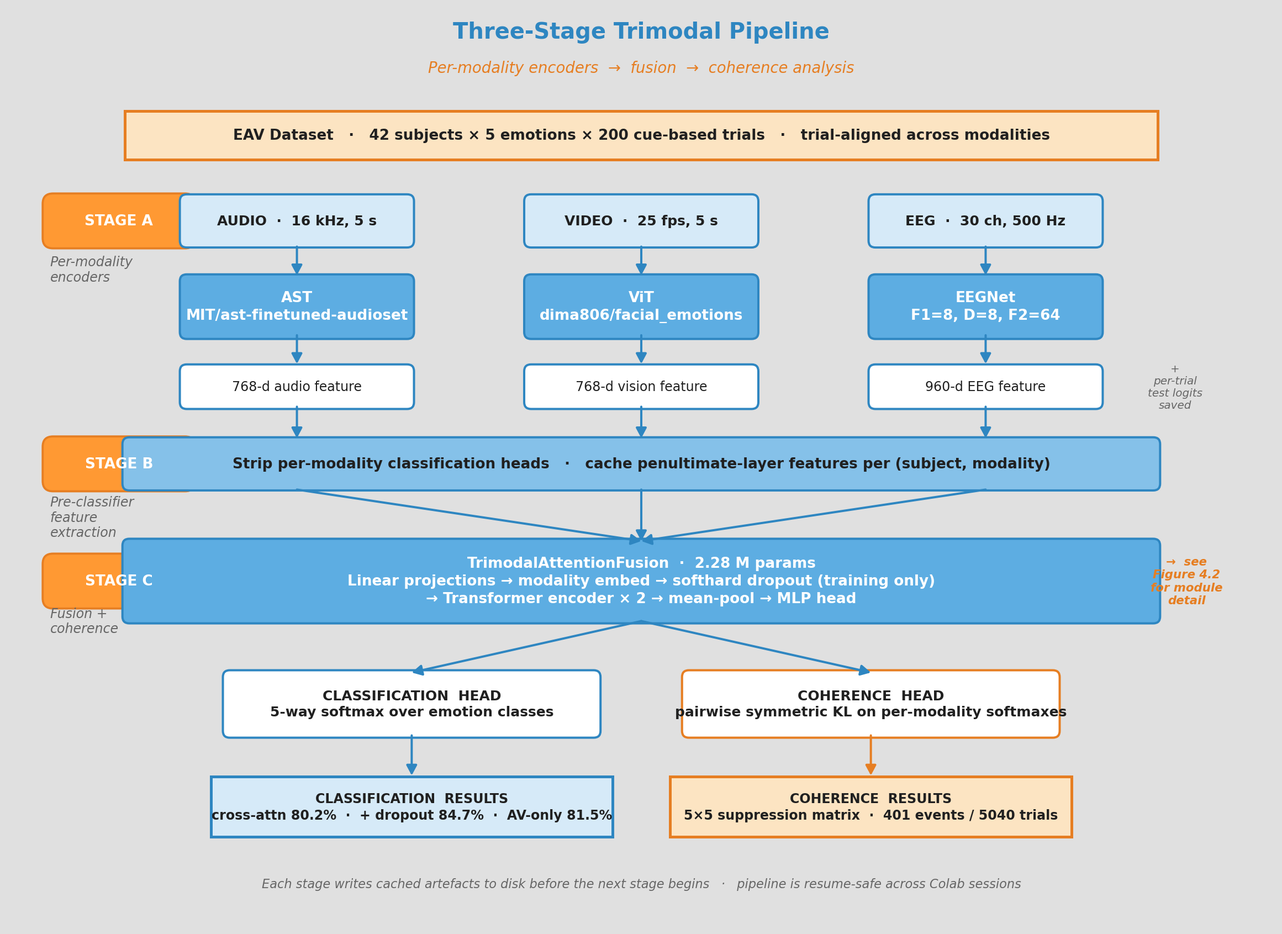
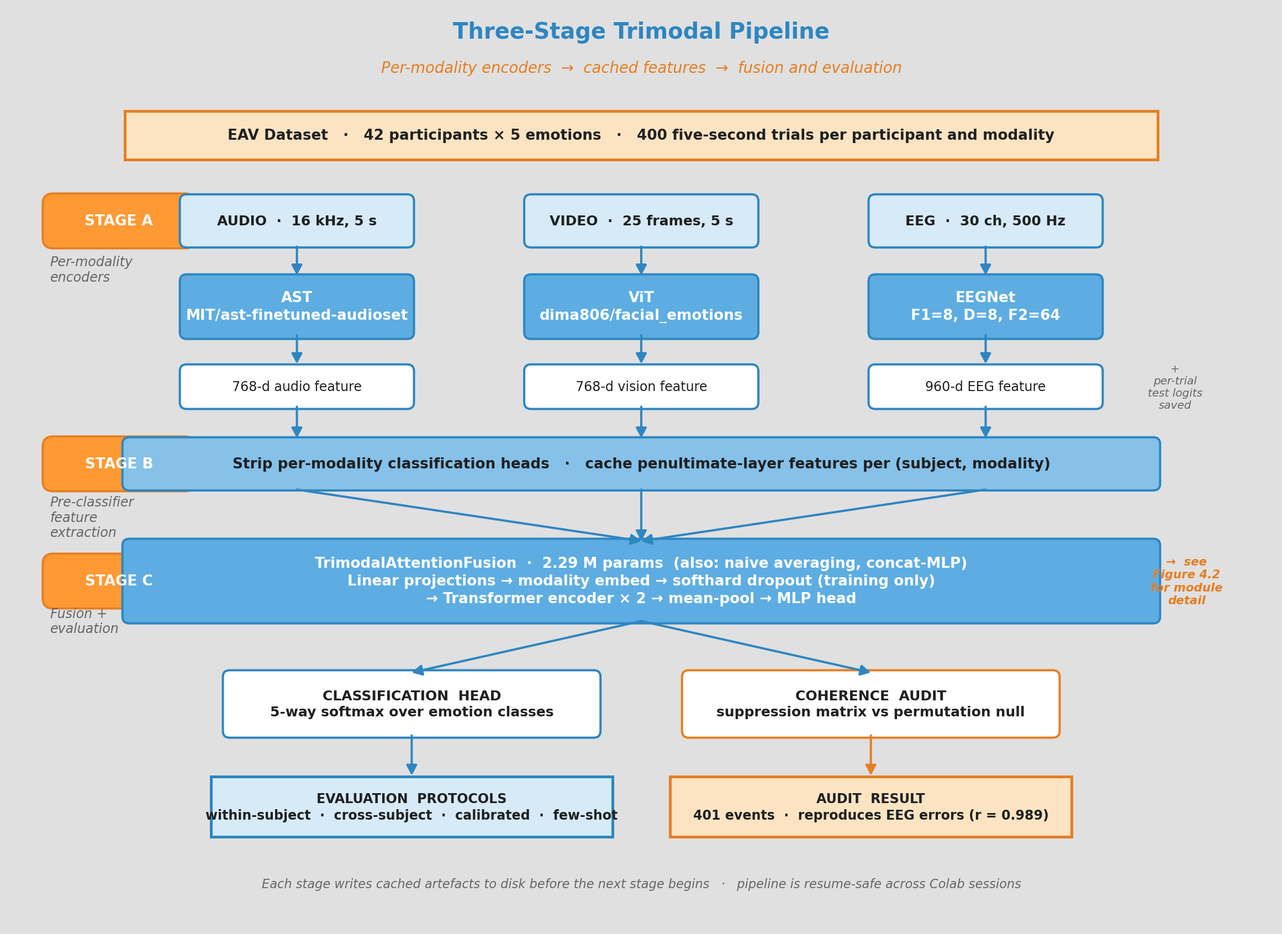
report: fixes from the compiled-PDF review
- Ch1: restore contributions 2-5 and the list's \end{enumerate} (lost in an
  earlier rewrite); four protocols; report-organisation duplicate removed.
- Figures 4.1, 4.2, 4.4 regenerated into LateX_P3/images without withdrawn
  numbers (80.2/84.7/81.5), with 2.29 M params, the implemented dropout
  scheme, no 'trial-aligned' or TFLOPS claims.
- Remaining \pend resolved: fold-1-only timing sentence; Pan et al.
  reduced to a neutral description (P2's two accounts contradicted).
- 'Demonstration' wording removed (no demo deliverable); stale Limitation 2
  reference; Q3/Q4 script jargon; wide tables resized; RQ-table lead-in;
  Limitation 7 wording matches C2; acknowledgement no longer cites the
  withdrawn coherence framing.
- main.tex: drop \nocite{*} (uncited P2 references no longer printed) and
  the empty nomenclature entry.

diff --git a/LateX_P3/chapters/chapter_1.tex b/LateX_P3/chapters/chapter_1.tex
@@ -48,9 +48,14 @@ The thesis makes two principal contributions, supported by three secondary ones.
 
 \begin{enumerate}
     \item \textbf{Subject calibration for trimodal fusion (Chapter~\ref{chap:calibration}).} Standardising each participant's fusion features with statistics from about 20 unlabelled five-second clips lifts every learned fusion head on unseen participants from 3--4.5 points below averaging to 73.6--75.9\%. Linear probes show that the calibration removes linearly decodable participant identity, mostly from vision. Averaging calibrated the same way is just as accurate, so without labels the gain belongs to calibration rather than to the fusion operator; when the calibration clips are also labelled, the learned heads outperform labelled averaging by 3.2--4.8 points at 50 clips, with attention trained with modality dropout the most accurate.
+    \item \textbf{An evaluation-integrity audit (Chapter~\ref{chap:audit}).} Choosing each fusion head's epoch on the test set had inflated the Pre-Thesis~II fusion results by 5.3--7.5 points; the modalities' trials cannot be shown to correspond from the released data; and the suppression matrix cannot be told apart from the EEG classifier's own errors. Each test is quick to run and can be reused on other work with EAV.
+    \item \textbf{The first subject-independent evaluation of trimodal fusion on EAV (Chapter~\ref{chap:crosssubject})}, which traces the loss on new participants to the vision modality.
+    \item \textbf{A trimodal attention fusion module that works without EEG (Chapters~\ref{chap:methodology} and~\ref{chap:within})}, trained with softhard modality dropout so that accuracy holds when EEG is absent.
+    \item \textbf{Documented fixes to the EAV reference code (Chapter~\ref{chap:engineering_challenges})}, including defects in the public EEGNet code that prevented it from training correctly.
+\end{enumerate}
 
 \section{Methodology in Brief}
-The system is built in three cached stages, and evaluated under three protocols.
+The system is built in three cached stages, and evaluated under four protocols.
 
 \textbf{Stage A: per-modality encoders.} The Audio Spectrogram Transformer (AST), pre-trained on AudioSet, is fine-tuned on audio clips; a Vision Transformer (ViT) pre-trained for facial emotion is fine-tuned on video frames; and EEGNet is trained from scratch on EEG segments.
 
@@ -58,7 +63,7 @@ The system is built in three cached stages, and evaluated under three protocols.
 
 \textbf{Stage C: fusion.} Four fusion methods are compared on the same features: naive late fusion (the mean of the three modalities' softmax outputs); a trimodal attention module (\texttt{TrimodalAttentionFusion}) that treats the three modality features as a three-token sequence and applies self-attention; a concatenation MLP; and the attention module trained with softhard modality dropout, which is also evaluated with EEG zeroed.
 
-\textbf{Protocols.} Results are reported within-subject (each participant's 280/120 split), cross-subject (five-fold subject-wise cross-validation with encoders retrained per fold), and cross-subject with per-participant calibration. Every trained model's reported epoch is chosen without reference to the data it is scored on. Paired Wilcoxon tests with Holm correction and bootstrap confidence intervals are used throughout.
+\textbf{Protocols.} Results are reported within-subject (each participant's 280/120 split), cross-subject (five-fold subject-wise cross-validation with encoders retrained per fold), cross-subject with per-participant calibration, and cross-subject with labelled calibration clips. Every trained model's reported epoch is chosen without reference to the data it is scored on. Paired Wilcoxon tests with Holm correction and bootstrap confidence intervals are used throughout.
 
 \textbf{Coherence analysis.} A suppression matrix counts trials on which audio and vision agree, EEG confidently disagrees, and records the pair of emotions involved. Its cells are tested against a class-conditional permutation null that preserves every classifier's error rates.
 
@@ -68,4 +73,4 @@ The system is built in three cached stages, and evaluated under three protocols.
 \textbf{Challenges.} Twenty-four technical and methodological challenges are documented in Chapter~\ref{chap:engineering_challenges}. The most consequential were defects in the EAV reference EEGNet code that prevented it from training correctly; the leakage risk of reusing within-subject encoders for a cross-subject evaluation, which required retraining every encoder for every fold; and the discovery, in the final phase, that the Pre-Thesis~II fusion results had been selected on the test set.
 
 \section{Report Organisation}
-Chapter~\ref{chap:litreview} reviews the relevant literature. Chapter~\ref{chap:requirements} sets out requirements, impacts and constraints. Chapter~\ref{chap:methodology} describes the methodology and Chapter~\ref{chap:implementation} its implementation. Chapter~\ref{chap:within} reports within-subject results; Chapter~\ref{chap:crosssubject}, the subject-independent evaluation; Chapter~\ref{chap:calibration}, unsupervised subject calibration; and Chapter~\ref{chap:audit}, the evaluation-integrity audit. Chapter~\ref{chap:engineering_challenges} documents engineering challenges, and Chapter~\ref{chap:conclusion} concludes.
+Chapter~\ref{chap:litreview} reviews the relevant literature. Chapter~\ref{chap:requirements} sets out requirements, impacts and constraints. Chapter~\ref{chap:methodology} describes the methodology and its implementation. Chapter~\ref{chap:within} reports within-subject results; Chapter~\ref{chap:crosssubject}, the subject-independent evaluation; Chapter~\ref{chap:calibration}, unsupervised subject calibration; and Chapter~\ref{chap:audit}, the evaluation-integrity audit. Chapter~\ref{chap:engineering_challenges} documents engineering challenges, and Chapter~\ref{chap:conclusion} concludes.

diff --git a/LateX_P3/chapters/chapter_6.tex b/LateX_P3/chapters/chapter_6.tex
@@ -138,7 +138,7 @@ The attention architecture is nonetheless retained as the thesis's fusion design
 \section{Modality Dropout and Robustness}
 \label{sec:modality_dropout_results}
 
-Softhard modality dropout (Section~\ref{sec:modality_dropout}) trains the attention module on inputs in which, for each sample with probability 0.5, one randomly chosen modality is replaced by zeros and the remaining ones are rescaled. The trained model is then evaluated with all modalities present and with EEG zeroed---the audio-visual (AV) configuration that corresponds to the demonstration, where no EEG headset exists.
+Softhard modality dropout (Section~\ref{sec:modality_dropout}) trains the attention module on inputs in which, for each sample with probability 0.5, one randomly chosen modality is replaced by zeros and the remaining ones are rescaled. The trained model is then evaluated with all modalities present and with EEG zeroed---the audio-visual (AV) configuration of any user without an EEG headset.
 
 \begin{table}[htbp]
 \centering
@@ -150,7 +150,7 @@ Softhard modality dropout (Section~\ref{sec:modality_dropout}) trains the attent
 \textbf{Inference configuration} & \textbf{Leak-free} & \textbf{Pre-Thesis~II (test-selected epoch)} \\
 \hline
 Full (audio + vision + EEG) & 79.80\% & 84.7\% \\
-AV only (EEG zeroed; demo path) & 79.17\% & 81.5\% \\
+AV only (EEG zeroed) & 79.17\% & 81.5\% \\
 VE only (audio zeroed) & not measured & 79.7\% \\
 AE only (vision zeroed) & not measured & 54.0\% \\
 \hline
@@ -159,7 +159,7 @@ AE only (vision zeroed) & not measured & 54.0\% \\
 
 \textbf{Dropout makes attention competitive.} Modality-dropout training lifts the same attention architecture from 76.75\% to 79.80\%, a gain of 3.06 points ($p_{\mathrm{Holm}} = 3.1\times10^{-4}$, 32 of 42 participants), and leaves it tied with concat-MLP ($-0.16$ points, not significant). This is the largest reproducible architectural effect in the within-subject results. Randomly removing a modality during training forces each modality token to carry self-sufficient evidence, which acts as a regulariser on a module that otherwise over-fits 280 training trials.
 
-\textbf{The demo path survives.} With EEG zeroed at inference, the dropout model reaches 79.17\%. Removing EEG costs it 0.63 points, which is not significant ($p_{\mathrm{Holm}} = 0.16$ in a separate two-test family), and the AV configuration still beats full-modality cross-attention trained without dropout by 2.42 points ($p_{\mathrm{Holm}} = 0.0043$, 26 of 42 participants).
+\textbf{The zero-EEG path survives.} With EEG zeroed at inference, the dropout model reaches 79.17\%. Removing EEG costs it 0.63 points, which is not significant ($p_{\mathrm{Holm}} = 0.16$ in a separate two-test family), and the AV configuration still beats full-modality cross-attention trained without dropout by 2.42 points ($p_{\mathrm{Holm}} = 0.0043$, 26 of 42 participants).
 
 \textbf{Vision dominates within-subject.} The Pre-Thesis~II configuration results, although inflated in absolute terms, measure all four configurations at the same epoch and so remain informative about relative importance: removing vision cost 30.7 points, against 5.0 for audio and 3.2 for EEG. Chapter~\ref{chap:crosssubject} shows that this dominance is largely participant identity, which does not transfer.
 
@@ -230,5 +230,3 @@ Where several tests address one question, the Holm step-down procedure \cite{Hol
 \textbf{On the EEG performance ceiling.} The 43.9\% mean EEG accuracy reflects EEGNet's performance in EAV's within-subject low-data regime rather than a broken training configuration. With the two training bugs resolved (Chapter~\ref{chap:engineering_challenges}), EEG accuracy exceeds the EAV paper's published 36.7\% baseline. The ceiling is set by the small per-participant training set, the absence of cross-subject EEG pretraining, the non-stationarity of EEG, and how hard it is to separate five emotions in five seconds of 30-channel EEG.
 
 \textbf{On the Listen/Speak asymmetry.} In EAV the EEG segments are taken from the participant's \emph{listening} window and the audio and video from the \emph{speaking} window (Section~\ref{sec:listenspeak_asymmetry}). The three modalities are therefore never simultaneous: a trimodal example pairs the neural response to a cue with the behavioural response to it. This matters little for classification accuracy, but it constrains any trial-level interpretation of agreement between EEG and the audio-visual signals.
-
-\textbf{On the relationship to Pan et al.\ 2024.} \pend{verify this description of Pan et al.\ against the paper; Chapter 2 must agree} Pan et al.\ \cite{Pan2024OJEMB} fuse facial expression, speech and EEG at decision level---equivalent to the naive late-fusion baseline here---on datasets including MAHNOB-HCI, and find that fusion is significantly better only than speech, not than face or EEG. The leak-free within-subject results here are consistent with that picture: on corpora where one modality dominates and data per participant are scarce, the choice of fusion operator matters less than the encoders and the amount of training data.

diff --git a/LateX_P3/chapters/chapter_2.tex b/LateX_P3/chapters/chapter_2.tex
@@ -32,7 +32,7 @@ Fusion strategies fall into three families.
 \section{Related Work}
 
 \subsection{EEG Alongside Audio-Visual Signals}
-Soleymani et al.\ \cite{Soleymani2016EEGFacial} studied continuous emotion recognition from EEG and facial expressions and asked whether EEG's affective content is merely facial-muscle contamination. Their causality analysis found that EEG carries information beyond the facial signal, which is the basic justification for treating EEG as a separate channel. Xing et al.\ \cite{Xing2019EEGAudioVisual} fused differential-entropy EEG features with audio-visual features on DEAP and MAHNOB-HCI and found that the fused system outperformed each single modality, with EEG resolving ambiguity in the external cues. Pan et al.\ \cite{Pan2024OJEMB} combined facial expression, speech and EEG in one framework \pend{check Pan et al.: dataset (private vs MAHNOB-HCI), number of classes, and whether fusion beat all single modalities}. Chen et al.\ \cite{Chen2022EAV} recorded audio, video, EEG and EMG together and reported that fusing all four outperformed bimodal combinations.
+Soleymani et al.\ \cite{Soleymani2016EEGFacial} studied continuous emotion recognition from EEG and facial expressions and asked whether EEG's affective content is merely facial-muscle contamination. Their causality analysis found that EEG carries information beyond the facial signal, which is the basic justification for treating EEG as a separate channel. Xing et al.\ \cite{Xing2019EEGAudioVisual} fused differential-entropy EEG features with audio-visual features on DEAP and MAHNOB-HCI and found that the fused system outperformed each single modality, with EEG resolving ambiguity in the external cues. Pan et al.\ \cite{Pan2024OJEMB} combined facial expression, speech and EEG in a single recognition framework. Chen et al.\ \cite{Chen2022EAV} recorded audio, video, EEG and EMG together and reported that fusing all four outperformed bimodal combinations.
 
 \subsection{Fusion Architectures}
 Babu et al.\ \cite{Babu2024AffectiveFusionNet} combined Vision Transformers with variational autoencoders and graph-based relational learning in AffectiveFusionNet, showing the value of global context modelling for multimodal recognition. Lee, Kim and Kim \cite{Lee2024MERCL} proposed a three-stage pipeline: per-modality encoders (ViT per frame for video, VGGish for audio, a modified Conformer for EEG, each followed by a residual temporal convolutional network); contrastive pre-training (MERCL) combining within-modality, cross-modality and sample-wise alignment losses; and six-way cross-modal attention for fusion. It reports 83.2\% on DEAP and 90.9\% on SEED, but it has not been evaluated on EAV and its code is not released. Chumachenko, Iosifidis and Gabbouj \cite{Chumachenko2022SelfAttention} introduced self-attention fusion for audio-visual emotion recognition with incomplete inputs, trained with a ``softhard'' modality dropout that randomly removes modalities during training; the modality-dropout head of this thesis adopts that scheme.
@@ -80,7 +80,7 @@ Table~\ref{tab:research_evolution_p2} places the thesis in the development of th
 \hline
 Physiology as ground truth & EEG shown to carry affective information beyond facial behaviour. & Noisy signals; little modelling of social context. & Soleymani et al.\ \cite{Soleymani2016EEGFacial} \\
 \hline
-Feature-level fusion & Combined modalities outperform single ones. & Fixed weighting; noisy modalities can hurt. & Xing et al.\ \cite{Xing2019EEGAudioVisual}; Pan et al.\ \cite{Pan2024OJEMB} \\
+Feature-level fusion & Combined modalities outperform single ones. & Fixed weighting; noisy modalities can hurt. & Xing et al.\ \cite{Xing2019EEGAudioVisual} \\
 \hline
 Attention and contrastive fusion & Input-dependent weighting and cross-modal alignment. & Data-hungry; evaluated almost only within-subject. & Krishna and Patil \cite{KrishnaPatil2020Interspeech}; Lee et al.\ \cite{Lee2024MERCL} \\
 \hline

diff --git a/generate_fig_4_1.py b/generate_fig_4_1.py
@@ -17,7 +17,7 @@ from pathlib import Path
 import matplotlib.pyplot as plt
 from matplotlib.patches import FancyArrowPatch, FancyBboxPatch, Rectangle
 
-OUT_DIR = Path(__file__).resolve().parent / "LateX" / "images"
+OUT_DIR = Path(__file__).resolve().parent / "LateX_P3" / "images"
 OUT_DIR.mkdir(parents=True, exist_ok=True)
 OUT_PATH = OUT_DIR / "fig_4_1_trimodal_pipeline.png"
 
@@ -101,12 +101,12 @@ def main():
     ax.text(XLIM / 2, 15.5, "Three-Stage Trimodal Pipeline",
             ha="center", fontsize=16, fontweight="bold", color=LB_DEEP)
     ax.text(XLIM / 2, 14.9,
-            "Per-modality encoders  →  fusion  →  coherence analysis",
+            "Per-modality encoders  →  cached features  →  fusion and evaluation",
             ha="center", fontsize=11, style="italic", color=OR_DEEP)
 
     # ---- EAV dataset header ----
     sharp_block(ax, XLIM / 2, 13.8, 18, 0.85,
-                "EAV Dataset   ·   42 subjects × 5 emotions × 200 cue-based trials   ·   trial-aligned across modalities",
+                "EAV Dataset   ·   42 participants × 5 emotions   ·   400 five-second trials per participant and modality",
                 fc=OR_SOFT, ec=OR_DEEP, fontsize=10.5, weight="bold")
 
     # ---- Three modality columns ----
@@ -124,7 +124,7 @@ def main():
           "AUDIO  ·  16 kHz, 5 s",
           fc=LB_SOFT, ec=LB_DEEP, fontsize=10, weight="bold")
     block(ax, cx_v, 12.3, col_w, 0.85,
-          "VIDEO  ·  25 fps, 5 s",
+          "VIDEO  ·  25 frames, 5 s",
           fc=LB_SOFT, ec=LB_DEEP, fontsize=10, weight="bold")
     block(ax, cx_e, 12.3, col_w, 0.85,
           "EEG  ·  30 ch, 500 Hz",
@@ -185,12 +185,12 @@ def main():
 
     # ---- Stage C — Fusion ----
     stage_label(ax, 2.0, 6.0, "STAGE C")
-    ax.text(0.7, 5.55, "Fusion +\ncoherence",
+    ax.text(0.7, 5.55, "Fusion +\nevaluation",
             ha="left", va="top", fontsize=9.5, color=GREY,
             style="italic")
 
     block(ax, XLIM / 2, 6.0, 18, 1.4,
-          "TrimodalAttentionFusion  ·  2.28 M params\n"
+          "TrimodalAttentionFusion  ·  2.29 M params  (also: naive averaging, concat-MLP)\n"
           "Linear projections → modality embed → softhard dropout (training only)\n"
           "→ Transformer encoder × 2 → mean-pool → MLP head",
           fc=LIGHT_BLUE, ec=LB_DEEP, fontsize=10.5,
@@ -211,7 +211,7 @@ def main():
           fc=PANEL_WHITE, ec=LB_DEEP, fontsize=10, weight="bold")
 
     block(ax, 15.0, 3.85, 6.5, 1.1,
-          "COHERENCE  HEAD\npairwise symmetric KL on per-modality softmaxes",
+          "COHERENCE  AUDIT\nsuppression matrix vs permutation null",
           fc=PANEL_WHITE, ec=OR_DEEP, fontsize=10, weight="bold")
 
     arrow(ax, 7.0, 3.3, 7.0, 2.6)
@@ -219,13 +219,13 @@ def main():
 
     # ---- Outputs ----
     sharp_block(ax, 7.0, 2.05, 7.0, 1.05,
-                "CLASSIFICATION  RESULTS\n"
-                "cross-attn 80.2%  ·  + dropout 84.7%  ·  AV-only 81.5%",
+                "EVALUATION  PROTOCOLS\n"
+                "within-subject  ·  cross-subject  ·  calibrated  ·  few-shot",
                 fc=LB_SOFT, ec=LB_DEEP, fontsize=9.5, weight="bold")
 
     sharp_block(ax, 15.0, 2.05, 7.0, 1.05,
-                "COHERENCE  RESULTS\n"
-                "5×5 suppression matrix  ·  401 events / 5040 trials",
+                "AUDIT  RESULT\n"
+                "401 events  ·  reproduces EEG errors (r = 0.989)",
                 fc=OR_SOFT, ec=OR_DEEP, fontsize=9.5, weight="bold")
 
     # ---- Footer ----

diff --git a/LateX_P3/chapters/chapter_7_crosssubject.tex b/LateX_P3/chapters/chapter_7_crosssubject.tex
@@ -1,8 +1,7 @@
 The results of Chapter~\ref{chap:within} are obtained under a \emph{within-subject} protocol: for
 each participant, a model is trained on 280 of that participant's trials and tested
-on the remaining 120. Limitation~2 of this thesis acknowledges that such figures
-cannot support a generalisation claim. This chapter removes that limitation by
-re-running the entire pipeline under a subject-disjoint protocol and reporting what
+on the remaining 120. Such figures cannot support a claim about people the system
+has never seen. This chapter addresses that by re-running the entire pipeline under a subject-disjoint protocol and reporting what
 the system achieves on participants it has never seen.
 
 \section{Motivation: What Within-Subject Evaluation Conceals}
@@ -13,7 +12,7 @@ voice and neural signature during training. The reported accuracy therefore answ
 the question \emph{``how well does the system recognise emotions in a person it has
 already studied?''}, not \emph{``does the system recognise emotions?''}. For a
 deployment scenario---clinical screening, human-computer interaction, or the
-demonstration component of this thesis---the second question is the operative one,
+any system meant for new users---the second question is the operative one,
 because every new user is by definition a participant the system has never trained on.
 
 This distinction is not merely theoretical. A facial-emotion encoder trained and
@@ -65,8 +64,8 @@ reports the assignment.
 \end{table}
 
 Five folds are used rather than leave-one-subject-out (LOSO). LOSO would require 42
-folds $\times$ 3 encoders $=$ 126 encoder trainings. At the measured cost of fold~1
-(164 minutes; \pend{confirm other folds' times}), five folds need roughly 14 hours of
+folds $\times$ 3 encoders $=$ 126 encoder trainings. Fold~1, the only fold whose full
+duration was recorded, took 164 minutes; at that rate five folds need roughly 14 hours of
 GPU time, whereas LOSO would need at least 113 hours. Five-fold subject-wise
 cross-validation retains the essential property---every participant is tested exactly
 once as an unseen individual---at a fraction of the cost. Because every participant is
@@ -421,7 +420,7 @@ within-subject. The level moves; the shape of the population distribution does n
 The zero-EEG configuration retains its practical viability. Under default
 normalisation, modality-dropout fusion scores 58.77\% at full modality and 57.89\% with
 EEG zeroed---a difference of 0.89 percentage points that is not statistically
-significant ($p = 0.090$). The demonstration path, which operates without an EEG
+significant ($p = 0.090$). The zero-EEG configuration, which operates without an EEG
 headset, therefore degrades gracefully on unseen participants as well as on seen ones.
 
 The corollary was initially read as unfavourable to the trimodal premise: if removing

diff --git a/LateX_P3/chapters/chapter_calibration.tex b/LateX_P3/chapters/chapter_calibration.tex
@@ -414,7 +414,7 @@ Tables~\ref{tab:cal_main} and~\ref{tab:cal_random} exactly.
 All columns except the first use the same calibration clips and are scored on the
 same trials.}
 \label{tab:cal_baseline}
-\begin{tabular}{lccccccc}
+\resizebox{\textwidth}{!}{\begin{tabular}{lccccccc}
 \hline
 & \multicolumn{3}{c}{\textbf{Averaging}} & & \multicolumn{3}{c}{\textbf{Learned heads (calibrated)}} \\
 \textbf{Calibration} & \textbf{Uncal.} & \textbf{Centred} & \textbf{Z-scored} & \textbf{Audio, centred} & \textbf{Concat} & \textbf{Dropout} & \textbf{Attention} \\
@@ -423,7 +423,7 @@ All 400 clips    & 62.15\% & 74.87\% & 75.88\% & 65.54\% & 75.93\% & 75.02\% & 7
 20 random clips  & 62.14\% & 72.95\% & 72.52\% & 63.89\% & 73.84\% & 73.04\% & 72.48\% \\
 50 random clips  & 62.17\% & 73.98\% & 74.60\% & 64.84\% & 75.08\% & 74.25\% & 73.42\% \\
 \hline
-\end{tabular}
+\end{tabular}}
 \end{table}
 
 Table~\ref{tab:cal_baseline} and the tests of Table~\ref{tab:cal_baseline_tests} give
@@ -774,7 +774,7 @@ protocol.
 participants with 95\% bootstrap CI, and the mean within-participant standard deviation
 across trials (SD).}
 \label{tab:attention_weights}
-\begin{tabular}{llcccccc}
+\resizebox{\textwidth}{!}{\begin{tabular}{llcccccc}
 \hline
 \textbf{Protocol} & \textbf{Head} & \textbf{Audio} & \textbf{Vision} & \textbf{EEG} & \textbf{SD$_a$} & \textbf{SD$_v$} & \textbf{SD$_e$} \\
 \hline
@@ -783,7 +783,7 @@ Default    & Dropout   & 0.362 [0.352, 0.373] & 0.415 [0.403, 0.426] & 0.223 [0.
 Calibrated & Attention & 0.403 [0.395, 0.411] & 0.402 [0.390, 0.415] & 0.195 [0.188, 0.202] & 0.090 & 0.086 & 0.055 \\
 Calibrated & Dropout   & 0.403 [0.395, 0.411] & 0.410 [0.402, 0.419] & 0.187 [0.179, 0.195] & 0.110 & 0.106 & 0.054 \\
 \hline
-\end{tabular}
+\end{tabular}}
 \end{table}
 
 \textbf{The weighting is dynamic.} Within a participant, each modality's weight varies
@@ -810,7 +810,7 @@ participants), and vision's does not change significantly (Holm over 6 tests). T
 with Table~\ref{tab:cal_per_modality}, calibration helps vision by making the vision
 token informative, not by making attention avoid it.
 
-\textbf{Caveats.} The differences in Q3 and Q4 are small in weight units (0.01--0.04);
+\textbf{Caveats.} The right-versus-wrong and before-versus-after differences are small in weight units (0.01--0.04);
 rollout is a heuristic summary of information flow; and attention weights describe how
 tokens are mixed, not a complete explanation of the decision
 \cite{Jain2019AttentionNot}. The finding that matters for the title is the combination:

diff --git a/LateX_P3/chapters/chapter_8.tex b/LateX_P3/chapters/chapter_8.tex
@@ -18,6 +18,7 @@ The thesis also re-examined its own Pre-Thesis~II results. Selecting each fusion
 \textbf{Contribution 5: Documented fixes to the EAV reference code.} Defects in the public PyTorch EEGNet path---among them a forward hook that replaced a layer's output with its weight tensor, and a trainer that left BatchNorm and dropout in evaluation mode after the first epoch---prevented EEGNet from training correctly. With the defects fixed and the full epoch budget restored, pilot EEG accuracy rose from 24.4\% to 50.6\% (Chapter~\ref{chap:engineering_challenges}).
 
 \section{Answers to the Research Questions}
+Table~\ref{tab:rq_summary} summarises the answers to the nine research questions, each argued in full in the chapter named in Section~\ref{sec:contributions_intro}.
 
 \begin{table}[htbp]
 \centering
@@ -56,7 +57,7 @@ Seven limitations are acknowledged.
 
 \textbf{Limitation 6: Unverified trial alignment.} The released pickles are sorted into class blocks and carry no trial identifiers, so it cannot be confirmed that trial $i$ is the same interaction in every modality. Classification results do not depend on this; trial-level coherence analyses do.
 
-\textbf{Limitation 7: Unverified EEGNet port.} The corrected PyTorch EEGNet was not compared against the TensorFlow implementation from which the EAV paper's EEG baseline most likely comes, so the comparison with that baseline is between implementations as well as between training configurations.
+\textbf{Limitation 7: Unverified EEGNet port.} The corrected PyTorch EEGNet was not compared against the TensorFlow implementation from which the EAV paper's EEG baseline may come, so the comparison with that baseline is between implementations as well as between training configurations.
 
 \section{Future Work}
 

diff --git a/generate_fig_4_2.py b/generate_fig_4_2.py
@@ -10,7 +10,7 @@ from pathlib import Path
 import matplotlib.pyplot as plt
 from matplotlib.patches import FancyArrowPatch, FancyBboxPatch, Rectangle
 
-OUT_DIR = Path(__file__).resolve().parent / "LateX" / "images"
+OUT_DIR = Path(__file__).resolve().parent / "LateX_P3" / "images"
 OUT_DIR.mkdir(parents=True, exist_ok=True)
 OUT_PATH = OUT_DIR / "fig_4_2_attention_arch.png"
 
@@ -97,7 +97,7 @@ def main():
             "TrimodalAttentionFusion  —  Self-Attention over Modality Tokens",
             ha="center", fontsize=17, fontweight="bold", color=LB_DEEP)
     ax.text(XLIM / 2, 26.2,
-            "Trimodal fusion module   ·   2.28 M trainable parameters",
+            "Trimodal fusion module   ·   2.29 M trainable parameters",
             ha="center", fontsize=11.5, style="italic", color=OR_DEEP)
 
     # Three column centres for the parallel input streams
@@ -141,7 +141,7 @@ def main():
             color=GREY, style="italic")
     for cxn, idx in [(cx_a, 0), (cx_v, 1), (cx_e, 2)]:
         block(ax, cxn, y, col_w, 1.0,
-              f"+ modality_embed[{idx}]\nLayerNorm",
+              f"+ modality_embed[{idx}]",
               fc=LB_SOFT, ec=LB_DEEP, lw=1.4,
               fontsize=10.5, color=DARK_TEXT)
 
@@ -167,8 +167,8 @@ def main():
 
     block(ax, cx_main, y, 23.0, 1.3,
           "Softhard Modality Dropout   ·   (training only)\n"
-          "with p = 1/3   ·   pick m ∈ {audio, vision, eeg}   ·   "
-          "zero its token",
+          "per sample, p = 0.5   ·   pick one modality at random   ·   "
+          "zero its input, rescale the others by 3 / n_active",
           fc=OR_SOFT, ec=OR_DEEP, lw=2.0,
           fontsize=11, weight="bold", color=DARK_TEXT)
     arrow(ax, cx_main, y - 0.65, cx_main, y - 1.4)

diff --git a/LateX_P3/core/acknowledgement.tex b/LateX_P3/core/acknowledgement.tex
@@ -1,6 +1,6 @@
 \section*{Acknowledgement}
 
-We would like to express our sincere gratitude to our supervisor, \textbf{Dr. Md. Khalilur Rhaman}, and our co-supervisor, \textbf{Dr. Md. Sakir Hossain}, for their continuous guidance and support throughout the course of this research. Their feedback at critical junctures---particularly in reframing the project toward cross-modal affective coherence---materially shaped the thesis's final contribution. We also thank the faculty members of the Department of Computer Science and Engineering, BRAC University, for their encouragement and constructive feedback during the thesis seminars.
+We would like to express our sincere gratitude to our supervisor, \textbf{Dr. Md. Khalilur Rhaman}, and our co-supervisor, \textbf{Dr. Md. Sakir Hossain}, for their continuous guidance and support throughout the course of this research. Their feedback at critical junctures, especially each time the project had to change direction, shaped the thesis's final contribution. We also thank the faculty members of the Department of Computer Science and Engineering, BRAC University, for their encouragement and constructive feedback during the thesis seminars.
 
 We are grateful to Lee, Shomanov, Kabidenova, Yazici, and colleagues at Nazarbayev University for collecting and curating the EAV dataset, and in particular to Adai Shomanov for granting personal access to the corpus and explicit permission for its use in this research. We also thank the open-source contributors of the Hugging Face Transformers library and the EAV repository, without which the experimental infrastructure of this thesis could not have been assembled in the available time.
 

diff --git a/generate_fig_5_1.py b/generate_fig_5_1.py
@@ -17,7 +17,7 @@ from pathlib import Path
 import matplotlib.pyplot as plt
 from matplotlib.patches import FancyArrowPatch, FancyBboxPatch, Rectangle
 
-OUT_DIR = Path(__file__).resolve().parent / "LateX" / "images"
+OUT_DIR = Path(__file__).resolve().parent / "LateX_P3" / "images"
 OUT_DIR.mkdir(parents=True, exist_ok=True)
 OUT_PATH = OUT_DIR / "fig_5_1_workflow.png"
 
@@ -125,8 +125,8 @@ def main():
     # ---- BOTTOM CENTRE: Colab Pro (compute hub) ----
     block(ax, cx_colab, y_colab, 18.5, 3.2,
           "Google Colab Pro   ·   Cloud GPU",
-          "NVIDIA L4   ·   24 GB VRAM   ·   83 TFLOPS FP16\n"
-          "training + inference   ·   ~12 h for the full 42-subject rollout",
+          "NVIDIA L4   ·   24 GB GPU memory\n"
+          "training + inference   ·   ~12 h for the within-subject rollout",
           fc=LIGHT_BLUE, ec=LB_DEEP,
           title_color="white", body_color="white",
           title_size=13.5, body_size=11)

diff --git a/LateX_P3/chapters/chapter_audit.tex b/LateX_P3/chapters/chapter_audit.tex
@@ -142,7 +142,7 @@ within-subject rankings a weak basis for any such claim.
 Pre-Thesis~II reported modality dropout as a 4.5-point gain over cross-attention; the
 leak-free gain is 3.1 points, still highly significant.
 
-\textbf{The zero-EEG demonstration path survives.} The claim that the dropout model
+\textbf{The zero-EEG path survives.} The claim that the dropout model
 without EEG beats cross-attention with EEG is, if anything, stronger after correction.
 
 \section{Trial Alignment}

diff --git a/LateX_P3/main.tex b/LateX_P3/main.tex
@@ -115,8 +115,6 @@
 \listoffigures % To  generation of the List of Figure
 \listoftables % To  generation of the Tables of Figure
 
-\printnomenclature % TO  generation of the Nomenclature file
-\addcontentsline{toc}{chapter}{Nomenclature}
 \cleardoublepage
 
 \pagenumbering{arabic} % To use page number 1,2,3 ..
@@ -165,7 +163,6 @@
 
 
 \phantomsection
-\nocite{*}
 \printbibliography % Where the bibliography will be printed
 \addcontentsline{toc}{chapter}{Bibliography}
 
